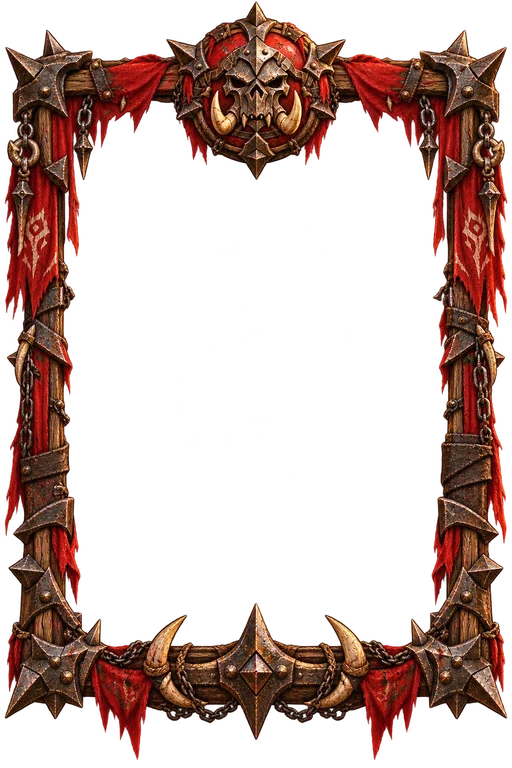
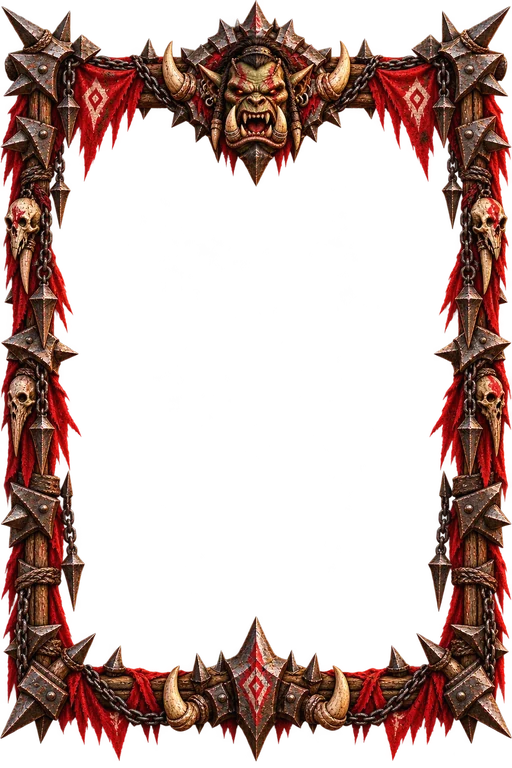
feat(web): new Prsi kule frame with layouts fitted to it
Claude-Session: https://claude.ai/code/session_018MycBWGt5wiYNw7u2XBiee

diff --git a/apps/web/static/games/prsi/cards2.js b/apps/web/static/games/prsi/cards2.js
@@ -9,7 +9,7 @@ const PrsiCards2 = (() => {
   // tvar karty dává rámeček barvy: pozadí jen uvnitř jeho obrysu [x0, y0, x1, y1, zaoblení]
   // (srdce: zlatý obrys, kule: středy trámů), ozdoby, které z něj vyčnívají, zůstávají celé
   // (karta tak nemusí být přesný obdélník)
-  const CLIP = { 0: [34, 51, 989, 1473, 88], 3: [70, 140, 960, 1380, 10] };
+  const CLIP = { 0: [34, 51, 989, 1473, 88], 3: [75, 150, 950, 1390, 10] };
   // rámeček zvětšený kolem středu karty (víc místa uvnitř, nejkrajnější špičky ozdob se ořežou);
   // ořez pozadí i místo v rozích se zvětší s ním
   const FRAME_S = { 3: 1 };
@@ -31,7 +31,7 @@ const PrsiCards2 = (() => {
   // rozložení znaků na číselných kartách jako na jednohlavých mariáškách: znaky v horních
   // třech čtvrtinách s mezerami mezi sebou, dole zůstává vidět obrázek; hodnotu ukazují
   // římské číslice v obou horních rozích. Každá barva má rozložení podle vnitřku svého rámečku
-  // (kule: menší vnitřek, nahoře lebka, dole rohy, proto menší znaky); w je šířka znaku.
+  // (kule: užší vnitřek, nahoře hlava orka a praporce, dole hrot, proto menší znaky); w je šířka znaku.
   const ROMAN = ['VII', 'VIII', 'IX', 'X'];
   const PIPS = {
     0: {
@@ -43,10 +43,10 @@ const PrsiCards2 = (() => {
     },
     3: {
       w: 185,
-      0: [[512, 470], [282, 640], [742, 640], [282, 865], [742, 865], [282, 1090], [742, 1090]],
-      1: [[282, 440], [742, 440], [282, 660], [742, 660], [282, 880], [742, 880], [282, 1100], [742, 1100]],
-      2: [[287, 575], [287, 795], [287, 1015], [512, 465], [512, 685], [512, 905], [737, 575], [737, 795], [737, 1015]],
-      3: [[287, 570], [287, 783], [287, 996], [512, 463], [512, 676], [512, 889], [512, 1102], [737, 570], [737, 783], [737, 996]],
+      0: [[512, 480], [282, 690], [742, 690], [282, 920], [742, 920], [282, 1150], [742, 1150]],
+      1: [[282, 470], [742, 470], [282, 700], [742, 700], [282, 930], [742, 930], [282, 1160], [742, 1160]],
+      2: [[272, 595], [272, 835], [272, 1075], [512, 475], [512, 715], [512, 955], [752, 595], [752, 835], [752, 1075]],
+      3: [[272, 582], [272, 797], [272, 1012], [512, 475], [512, 690], [512, 905], [512, 1120], [752, 582], [752, 797], [752, 1012]],
     },
   };
   // figura je celá obrázkem a nese znaky barvy [x, y, šířka]: spodek jeden dole, svršek jeden
@@ -139,8 +139,8 @@ const PrsiCards2 = (() => {
   // figury mají v rozích místo písmen značku, která nepotřebuje překlad: spodek (Unter, „dolní“)
   // hrot dolů, svršek (Ober, „horní“) hrot nahoru
   // místo v horních rozích podle rámečku barvy [levý okraj, spodní hrana, velikost]: u kulí
-  // pod trámem a vedle lebky, proto níž a menší
-  const CORNER = { 0: [205, 258, 1], 3: [185, 328, 0.75] };
+  // pod trámem mezi praporcem a hlavou orka, proto níž a menší
+  const CORNER = { 0: [205, 258, 1], 3: [215, 350, 0.78] };
   const MARKS = {
     4: (t, op) => { t.beginPath(); t.moveTo(0, 0); t.lineTo(104, 0); t.quadraticCurveTo(79, 48, 52, 108); t.quadraticCurveTo(25, 48, 0, 0); t.closePath(); t[op](); },
     5: (t, op) => { t.beginPath(); t.moveTo(52, 0); t.quadraticCurveTo(79, 60, 104, 108); t.lineTo(0, 108); t.quadraticCurveTo(25, 60, 52, 0); t.closePath(); t[op](); },
